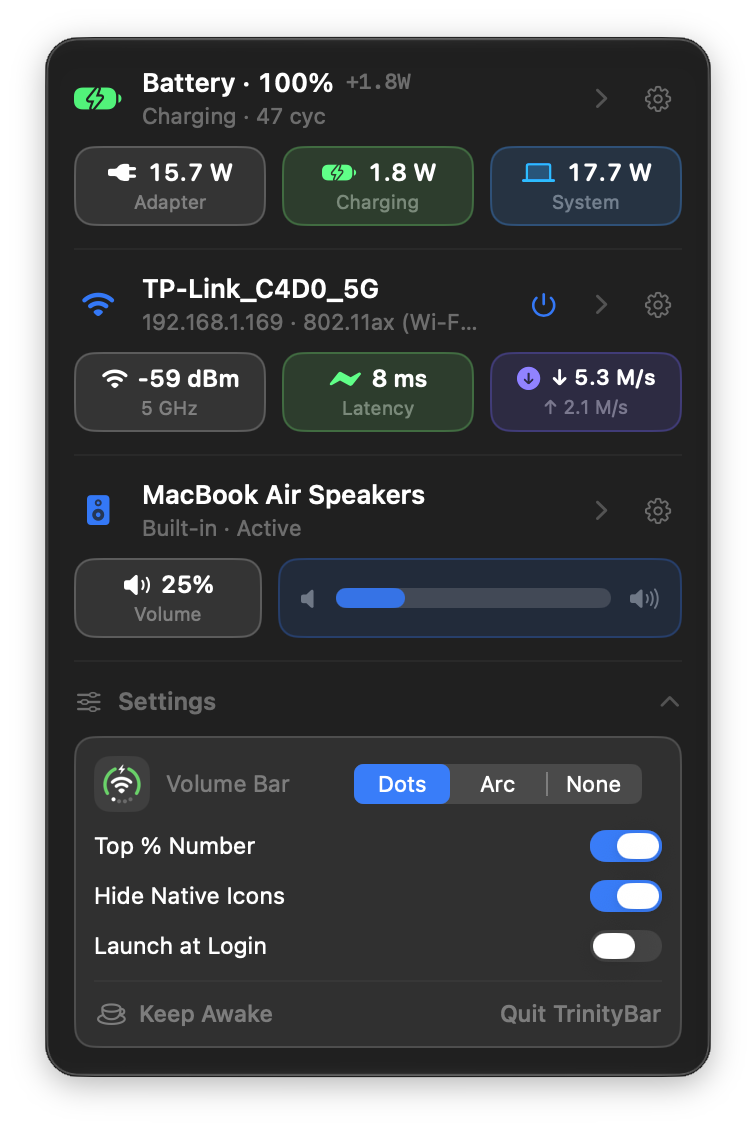
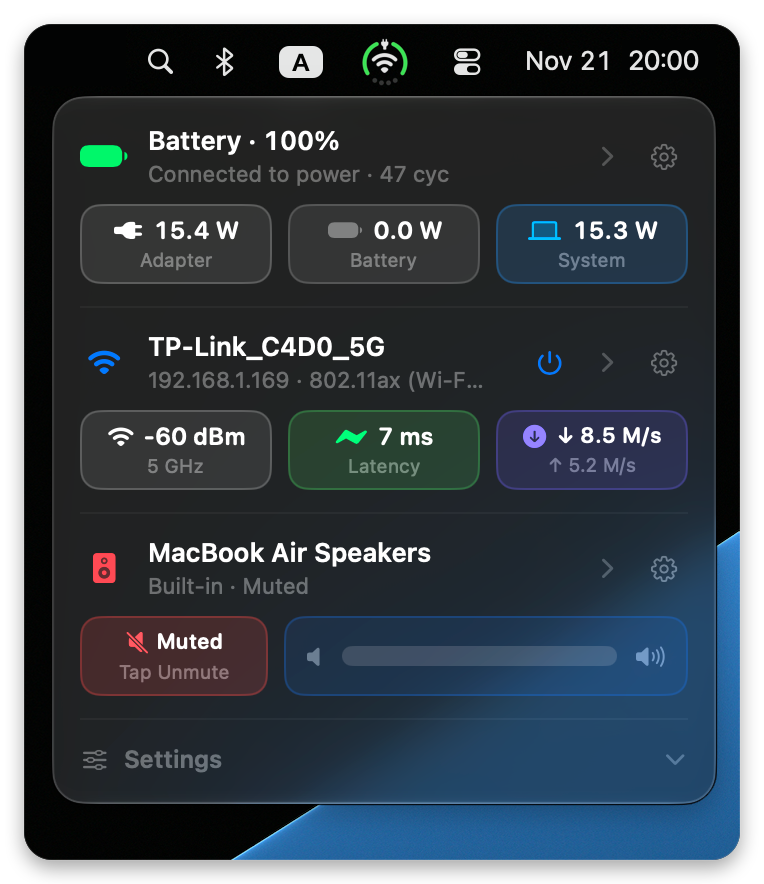
Update preview screenshot with menu bar emblem

diff --git a/README.md b/README.md
@@ -10,7 +10,7 @@
 **TrinityBar** is a lightweight (`~588 KB`), native macOS menu bar utility that unifies **Battery**, **Network**, and **Sound** into a single **`24pt`** status emblem paired with a two-layer **Liquid Glass** dashboard (`NSGlassEffectView` on macOS 26+, with automatic `NSVisualEffectView` and `Reduce Transparency` fallbacks).
 
 <p align="center">
-  <img src="assets/preview.png" width="360" alt="TrinityBar Dashboard Preview" />
+  <img src="assets/preview.png" width="382" alt="TrinityBar Dashboard Preview" />
 </p>
 
 ---
